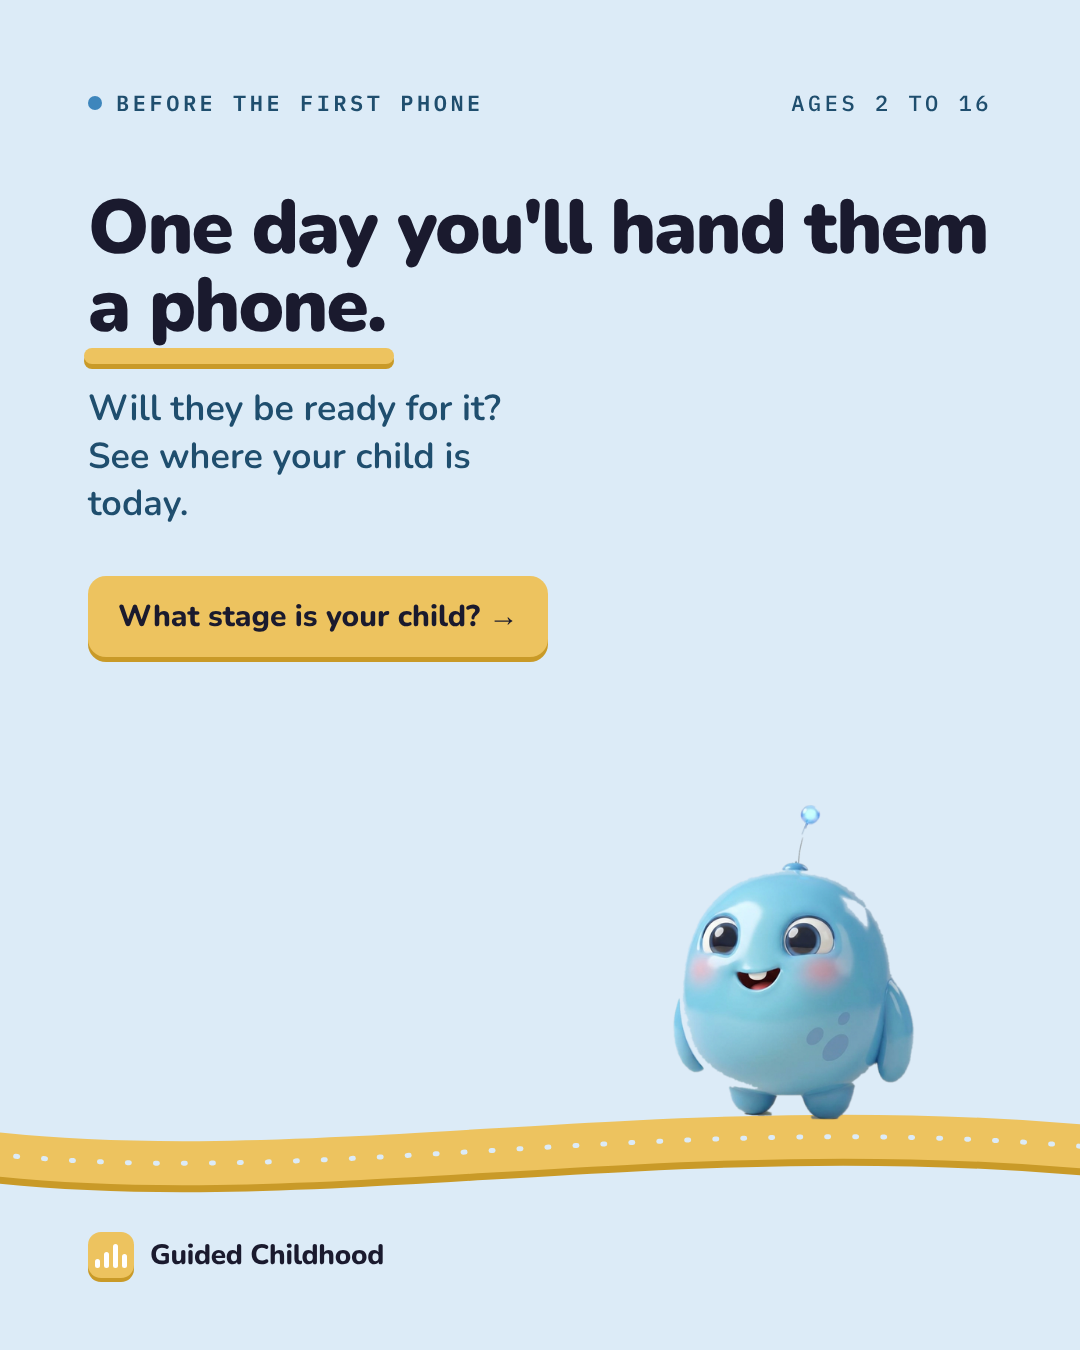
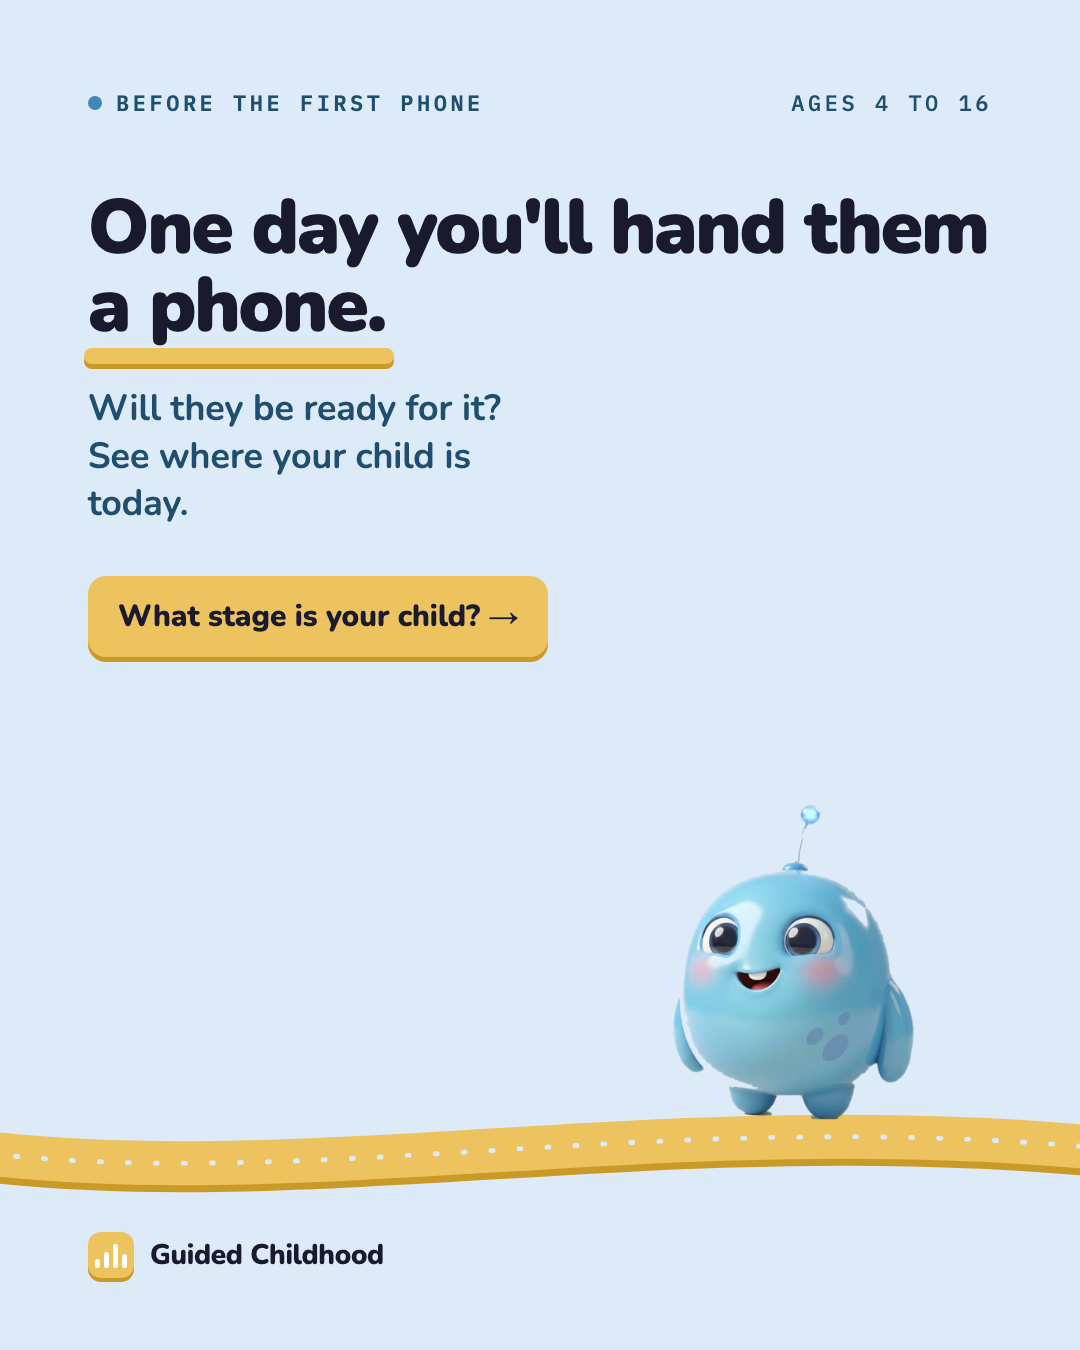
We start at 4: the customer line is 4 to 16, and a 2 or 3 year old is told so
Justin, 16 October 2026: the parent of a 2 or 3 year old is a customer later.
THE-STORY, review.md, the review lenses and the first phone ad say 4 to 16.
A birthday under 4 in the stage check, setup or adding a child no longer
clamps into ages 4 to 7; StartsAtFour says we start at 4 and when to come
back, and the step stays put. The birthday line names the stage's own ages.

diff --git a/components/children/BirthdayFields.tsx b/components/children/BirthdayFields.tsx
@@ -1,7 +1,8 @@
 'use client'
 
-import { bandForAge } from '@/lib/children/age'
-import type { AgeBand } from '@/lib/content/stages'
+import { bandForAge, isTooYoung } from '@/lib/children/age'
+import { getStageFromAgeBand, type AgeBand } from '@/lib/content/stages'
+import StartsAtFour from '@/components/children/StartsAtFour'
 
 // ONE WAY TO ASK HOW OLD A CHILD IS, FOR EVERY CHILD.
 //
@@ -38,21 +39,35 @@ export function dobFrom(month: number | null, year: number | null): string | nul
   return `${year}-${String(month).padStart(2, '0')}-01`
 }
 
-/** The band that birthday puts them in today, and will keep putting them in. */
+/** The band that birthday puts them in today, and will keep putting them in.
+ *  Null for a child not yet 4, so every form that waits on a band (the add a
+ *  child card, the setup step) stays shut and StartsAtFour says why. */
 export function bandFrom(month: number | null, year: number | null): AgeBand | null {
   const dob = dobFrom(month, year)
-  return dob ? bandForAge(dob) : null
+  if (!dob || isTooYoung(dob)) return null
+  return bandForAge(dob)
+}
+
+/** A birthday that is given and is under 4 (Justin, 16 October 2026). */
+export function tooYoungFrom(month: number | null, year: number | null): boolean {
+  return isTooYoung(dobFrom(month, year))
 }
 
 export default function BirthdayFields({
-  month, year, onChange, fieldStyle,
+  month, year, onChange, fieldStyle, name, tooYoungAfter,
 }: {
   month: number | null
   year: number | null
   onChange: (month: number | null, year: number | null) => void
   /** The host form's own input style, so this looks native wherever it lands. */
   fieldStyle: React.CSSProperties
+  /** The child's first name, for the we start at 4 card. */
+  name?: string
+  /** The closing line of that card on this screen. */
+  tooYoungAfter?: string
 }) {
+  const dob = dobFrom(month, year)
+  const tooYoung = isTooYoung(dob)
   return (
     <div>
       <span style={{ display: 'block', fontFamily: 'var(--font-mono)', fontSize: 'var(--text-xs)', fontWeight: 700, letterSpacing: '0.08em', textTransform: 'uppercase', color: 'var(--ink-muted)', marginBottom: '5px' }}>
@@ -80,11 +95,18 @@ export default function BirthdayFields({
       </div>
       {/* The band is derived, not asked, and said back so a parent can see we
           got it right without having to trust us. */}
+      {tooYoung && dob ? (
+        <StartsAtFour dob={dob} name={name} after={tooYoungAfter} />
+      ) : (
       <p style={{ fontSize: 'var(--text-sm)', color: 'var(--ink-muted)', margin: '6px 0 0', lineHeight: 1.5, minHeight: '1.2em' }}>
+        {/* The stage's own label, never the band value: the '11-13' band is
+            ages 11 to 12, and printing the value told the parent of a 13 year
+            old two stages at once. */}
         {bandFrom(month, year)
-          ? `Month and year is plenty. That puts them in ages ${bandFrom(month, year)!.replace('-', ' to ')}, and we move them up on their birthday.`
+          ? `Month and year is plenty. That puts them in ${getStageFromAgeBand(bandFrom(month, year)!).name}, ${getStageFromAgeBand(bandFrom(month, year)!).ages.toLowerCase()}, and we move them up on their birthday.`
           : 'Month and year is plenty, and it means they move up a stage on their own birthday.'}
       </p>
+      )}
     </div>
   )
 }

diff --git a/app/onboarding/page.tsx b/app/onboarding/page.tsx
@@ -3,7 +3,7 @@ import { useEffect, useState, useRef } from 'react'
 import { useRouter } from 'next/navigation'
 import { createClient } from '@/lib/supabase/client'
 import { getStageFromAgeBand, type AgeBand, type StarterAnswers } from '@/lib/content/stages'
-import BirthdayFields, { bandFrom, dobFrom } from '@/components/children/BirthdayFields'
+import BirthdayFields, { bandFrom, dobFrom, tooYoungFrom } from '@/components/children/BirthdayFields'
 import { recommendedDailyMinutes, termTimeDailyMinutes, bucketDailyGuide } from '@/lib/quests/screen-balance'
 import { holidayOn } from '@/lib/learning/holidays'
 import { BUCKET_META, BUCKET_ORDER } from '@/lib/balance/parent-report'
@@ -535,7 +535,12 @@ export default function OnboardingPage() {
     // A name is never demanded (first name only is the whole ask), but leaving
     // it blank should be a choice, not an accident: the first Next with no
     // name flags why it matters and asks once. A second Next continues.
+    // We start at 4 (Justin, 16 October 2026). A birthday under 4 holds the
+    // step, with the reason in the card under it, rather than going on to be
+    // filed as ages 4 to 7 or, with no band at all, as the 8 to 10 default.
+    const tooYoung = tooYoungFrom(dobMonth, dobYear) || siblings.some(s => tooYoungFrom(s.dobMonth, s.dobYear))
     const continueOn = () => {
+      if (tooYoung) return
       if (!firstName && !nameNudge) {
         setNameNudge(true)
         nameInputRef.current?.focus()
@@ -580,6 +585,8 @@ export default function OnboardingPage() {
                 month={dobMonth}
                 year={dobYear}
                 onChange={(m, y) => { setDobMonth(m); setDobYear(y) }}
+                name={childName}
+                tooYoungAfter="Got an older child as well? Put their name and birthday in here instead."
                 fieldStyle={{
                   width: '100%', boxSizing: 'border-box', padding: '12px 14px', borderRadius: 'var(--radius-tile)',
                   border: 'var(--edge)', background: '#fff',
@@ -682,6 +689,8 @@ export default function OnboardingPage() {
                   month={s.dobMonth}
                   year={s.dobYear}
                   onChange={(m, y) => updateSibling(i, { dobMonth: m, dobYear: y })}
+                  name={s.name}
+                  tooYoungAfter="Remove them for now. You can add them any time once they turn 4."
                   fieldStyle={{
                     width: '100%', boxSizing: 'border-box', padding: '12px 14px', borderRadius: 'var(--radius-tile)',
                     border: 'var(--edge)', background: '#fff',
@@ -695,7 +704,7 @@ export default function OnboardingPage() {
               + Add another child
             </button>
 
-            <button style={{ ...BTN, opacity: saving ? 0.7 : 1 }} onClick={continueOn} disabled={saving}>
+            <button style={{ ...BTN, opacity: saving || tooYoung ? 0.6 : 1 }} onClick={continueOn} disabled={saving || tooYoung}>
               {saving ? 'One moment...' : nameNudge && !firstName ? 'Continue without a name' : 'Next'}
             </button>
             <button onClick={() => setScreen('welcome')} style={BACK_BTN}>

diff --git a/components/children/StartsAtFour.tsx b/components/children/StartsAtFour.tsx
@@ -1,0 +1,48 @@
+import { turnsFourOn } from '@/lib/children/age'
+
+// WE START AT 4, SAID TO THE PARENT RATHER THAN DONE TO THEM.
+//
+// Justin, 16 October 2026: the parent of a 2 or 3 year old is a customer
+// later, not now. Before this, a birthday under 4 was quietly filed under
+// ages 4 to 7 and the parent was shown a stage, lessons and scripts written
+// for a child twice the age. One card, the same everywhere a birthday is asked:
+// what we cover, and when to come back. No email capture, because none exists
+// for this moment and a new one is a separate decision.
+
+const MONTHS = ['January', 'February', 'March', 'April', 'May', 'June',
+  'July', 'August', 'September', 'October', 'November', 'December'] as const
+
+export default function StartsAtFour({ dob, name, after }: {
+  /** The YYYY-MM-01 birthday the parent just gave. */
+  dob: string
+  /** The child's first name when we have it. */
+  name?: string
+  /** One closing line for the screen it sits on (an older child, a sibling). */
+  after?: string
+}) {
+  const four = turnsFourOn(dob)
+  const who = name?.trim() || 'Your little one'
+  return (
+    <div role="status" style={{
+      background: 'var(--tint-butter)', border: '1.5px solid var(--border)',
+      borderRadius: 'var(--radius-tile)', padding: '14px 16px', marginTop: '12px',
+    }}>
+      <p style={{ fontFamily: 'var(--font-display)', fontWeight: 800, fontSize: 'var(--text-md)', color: 'var(--ink)', margin: '0 0 6px', lineHeight: 1.3 }}>
+        We start at 4
+      </p>
+      <p style={{ fontSize: 'var(--text-base)', color: 'var(--ink-soft)', lineHeight: 1.55, margin: 0 }}>
+        {who} is still a bit young for us. Everything here is written for children aged 4 to 16, so anything we showed you now would be meant for an older child.
+      </p>
+      {four && (
+        <p style={{ fontSize: 'var(--text-base)', color: 'var(--ink)', lineHeight: 1.55, margin: '8px 0 0' }}>
+          Come back when they turn 4, in {MONTHS[four.month - 1]} {four.year}. We will be ready for them.
+        </p>
+      )}
+      {after && (
+        <p style={{ fontSize: 'var(--text-sm)', color: 'var(--ink-muted)', lineHeight: 1.5, margin: '8px 0 0' }}>
+          {after}
+        </p>
+      )}
+    </div>
+  )
+}

diff --git a/app/(marketing)/starter-pack/page.tsx b/app/(marketing)/starter-pack/page.tsx
@@ -16,7 +16,8 @@ const ProviderButtons = dynamic(() => import('@/components/auth/ProviderButtons'
 const SavingPathway = dynamic(() => import('@/components/starter/SavingPathway'), { ssr: false })
 import { writeStarterSetup, keepPendingSetup, takePendingSetup, clearPendingSetup, type PendingSetup } from '@/lib/starter/finish-setup'
 import { enabledProviders } from '@/lib/auth/providers'
-import { bandForAge } from '@/lib/children/age'
+import { bandForAge, isTooYoung } from '@/lib/children/age'
+import StartsAtFour from '@/components/children/StartsAtFour'
 import WorryPicker from '@/components/onboarding/WorryPicker'
 import { WORRIES, CATCH_ALL_ID, challengeFor, toWorryIds, worryLabel } from '@/lib/onboarding/worries'
 import {
@@ -399,6 +400,11 @@ export default function StarterPackPage() {
     setDobMonth(month)
     setDobYear(year)
     if (month == null || year == null) return
+    // We start at 4 (Justin, 16 October 2026). A 2 or 3 year old used to be
+    // clamped into ages 4 to 7 here and walked on to a stage written for a
+    // child twice their age. Now the page stays put and StartsAtFour, under
+    // the birthday, says so and says when to come back.
+    if (isTooYoung(`${year}-${String(month).padStart(2, '0')}-01`)) { setAgeBand(null); return }
     const derived = bandForAge(`${year}-${String(month).padStart(2, '0')}-01`)
     if (!derived) return
     setAgeBand(derived)
@@ -963,6 +969,9 @@ export default function StarterPackPage() {
                 {BIRTH_YEARS.map(y => <option key={y} value={y}>{y}</option>)}
               </select>
             </div>
+            {dob && isTooYoung(dob) && (
+              <StartsAtFour dob={dob} name={childName} after="Got an older child as well? Put their birthday in instead." />
+            )}
 
             {/* THE STAGE IS NOT ANNOUNCED HERE ANY MORE.
 

diff --git a/lib/children/age.ts b/lib/children/age.ts
@@ -35,8 +35,30 @@ export function ageFromDob(dob: string | Date | null | undefined, on: Date = new
   return age >= 0 ? age : null
 }
 
-// The band a whole year age lands in. Ages under 4 clamp into the first
-// band, so a very young sibling still has a sensible home.
+// WE START AT 4 (Justin, 16 October 2026). The parent of a 2 or 3 year old is
+// a customer later, not now: every stage, lesson and script begins at 4. So
+// every place a parent gives a birthday (the stage check, setup, adding a
+// child) asks isTooYoung first and says so warmly, rather than letting the
+// clamp below file a toddler under ages 4 to 7 without a word.
+export const YOUNGEST_AGE = 4
+
+/** True only when the birthday is known and the child is not yet 4. */
+export function isTooYoung(dob: string | Date | null | undefined, on: Date = new Date()): boolean {
+  const age = ageFromDob(dob, on)
+  return age !== null && age < YOUNGEST_AGE
+}
+
+/** The month and year a child turns 4, for the "come back then" line. */
+export function turnsFourOn(dob: string | Date | null | undefined): { month: number; year: number } | null {
+  if (!dob) return null
+  const birth = typeof dob === 'string' ? new Date(`${dob.slice(0, 10)}T00:00:00Z`) : dob
+  if (Number.isNaN(birth.getTime())) return null
+  return { month: birth.getUTCMonth() + 1, year: birth.getUTCFullYear() + YOUNGEST_AGE }
+}
+
+// The band a whole year age lands in. Ages under 4 still clamp into the first
+// band, but only for a child already stored (the age up cron reads every
+// row); no sign up path lets a new one through, see isTooYoung above.
 export function bandForYears(age: number): AgeBand {
   if (age <= 7) return '4-7'
   if (age <= 10) return '8-10'

diff --git a/app/(dashboard)/dashboard/quests/QuestManager.tsx b/app/(dashboard)/dashboard/quests/QuestManager.tsx
@@ -789,6 +789,8 @@ export default function QuestManager() {
             <BirthdayFields
               month={newChildDobMonth}
               year={newChildDobYear}
+              name={newChildName}
+              tooYoungAfter="You can add them here any time once they turn 4."
               onChange={(m, y) => {
                 setNewChildDobMonth(m); setNewChildDobYear(y)
                 // The default stance still follows the age: under 11 is parent

diff --git a/components/setup/SetupQuest.tsx b/components/setup/SetupQuest.tsx
@@ -850,6 +850,8 @@ function OtherChildren() {
           year={dobYear}
           onChange={(m, y) => { setDobMonth(m); setDobYear(y) }}
           fieldStyle={field}
+          name={name}
+          tooYoungAfter="You can add them any time once they turn 4."
         />
 
         {/* THE SAME THREE QUESTIONS THE FIRST CHILD GOT.

diff --git a/content/packs/2026-10-14-first-phone-ad/README.md b/content/packs/2026-10-14-first-phone-ad/README.md
@@ -54,7 +54,7 @@ The lessons behind B and C, from both Instagram sweeps, are at the end of
 > deserves the same.
 >
 > Guided Childhood gets your child ready for a phone and social media, ten
-> minutes a day, from age 2 to 16, with you working through it together. You
+> minutes a day, from age 4 to 16, with you working through it together. You
 > get the words for the hard conversations. Your child earns their screen time
 > with jobs and stars, and some time stays protected whatever they earn.
 >
@@ -93,7 +93,7 @@ hook word for word. Where a caption has room, add the line that separates us:
 
 | Claim | Where it is in the product |
 |---|---|
-| Ready for a phone and social media, 2 to 16 | The stages road and lessons, THE-STORY.md section 1 and 6 |
+| Ready for a phone and social media, 4 to 16 | The stages road and lessons, THE-STORY.md section 1 and 6 |
 | Ten minutes a day | The daily page, `lib/home/next-up.ts` |
 | The words for the hard conversations | The `scripts` table, five free |
 | Earns screen time with jobs and stars | The child app, `app/k/[token]/page.tsx`, `lib/quests/time-tiers.ts` |

diff --git a/review.md b/review.md
@@ -36,7 +36,8 @@ Every feature honours all five commitments or it does not ship:
 
 ## 2. The customer test
 
-The perfect customer is a UK parent with a child aged 2 to 16. They have been
+The perfect customer is a UK parent with a child aged 4 to 16 (2 or 3 is a
+customer later, Justin, 16 October 2026). They have been
 burned by a blocking app, they can feel the phone moment coming, and they want
 a plan, not a ban. Judge every surface as that parent:
 
@@ -45,7 +46,9 @@ a plan, not a ban. Judge every surface as that parent:
   `research/homepage-audience-language.md`), not our internal names?
 - Does every claim on the page have a proof path in the product?
 - Does the age range hold? A feature that only makes sense for a 9 year old
-  needs to degrade gracefully for the parent of a 3 year old and a 15 year old.
+  needs to degrade gracefully for the parent of a 4 year old and a 15 year old,
+  and a birthday under 4 is told plainly that we start at 4, never filed
+  silently under ages 4 to 7.
 - Every CTA on /join routes to /starter-pack.
 
 ## 3. The scope test

diff --git a/plans/decisions.md b/plans/decisions.md
@@ -297,3 +297,12 @@ the answer away, wheel labels clear, readable instructions, word search at the
 top, shorter jar lines, "My name"), and tagged PDFs titled "The Planet Post,
 Issue 1". All five PDFs and the previews re-rendered; the guard holds the
 fixes. Spec: plans/2026-10-14-planet-post-handoff.md.
+
+## 16 October 2026: we start at 4, and the parent of a 2 or 3 year old is told so
+Justin decided the parent of a 2 or 3 year old is a customer later, not now
+(`decide-under-four-customer`). The customer line is 4 to 16 in THE-STORY,
+review.md, the review board lenses and the first phone ad. A birthday under 4 in
+the stage check, setup or adding a child no longer clamps into ages 4 to 7: one
+card (`components/children/StartsAtFour.tsx`) says we start at 4 and names the
+month to come back, and the step stays put. No email capture, as none existed.
+Children already stored keep the clamp so the age up cron is unchanged. PR #1330.

diff --git a/THE-STORY.md b/THE-STORY.md
@@ -43,8 +43,9 @@ do. And the tools they tried, Qustodio, Bark, Family Link, earn reviews like
 "a huge waste of money time and energy", because blocking software makes
 today's decision for the parent and teaches the child nothing for tomorrow.
 
-**The perfect customer.** A UK parent with a child aged 2 to 16 (Justin,
-18 August 2026), the heart of the market being primary age, who can feel the
+**The perfect customer.** A UK parent with a child aged 4 to 16 (Justin,
+18 August 2026; from 4, not 2, since 16 October 2026: the parent of a 2 or 3
+year old is a customer later), the heart of the market being primary age, who can feel the
 cliff edge coming: at some point the phone arrives, social
 media goes live, and nothing they did before that felt like preparation. They
 have tried an app that promised control and delivered arguments. They read

diff --git a/.claude/agents/review-skeptic.md b/.claude/agents/review-skeptic.md
@@ -17,7 +17,7 @@ Method:
 2. Open every proof path in the scorecard's strengths. A path that does not
    exist, or does not do what the claim says, is a failed line.
 3. Look for the counter example the lens did not look for: the age edge (a
-   parent of a 3 year old, a 15 year old), the empty state in week one, the
+   parent of a 4 year old, a 15 year old, a 3 year old told we start at 4), the empty state in week one, the
    phone width, the free tier, the copy in internal language, a dash.
 4. If the score rose by two or more, find the change in the product that
    earned it (`git log --since="10 days ago" --oneline`). No change, no rise.
